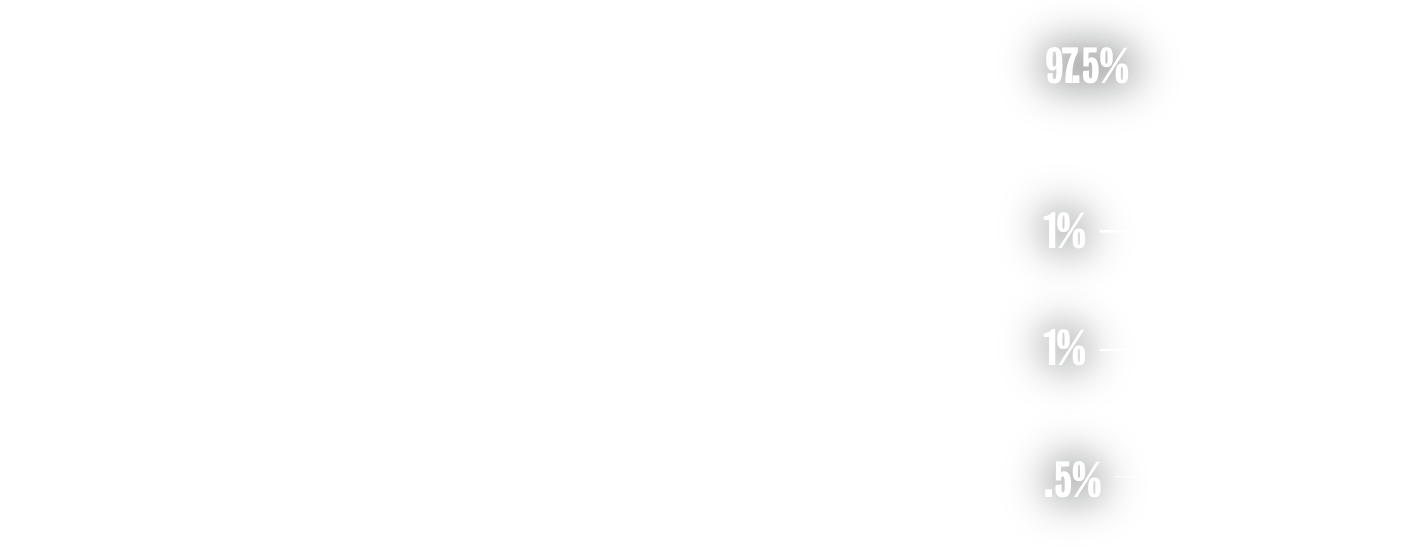
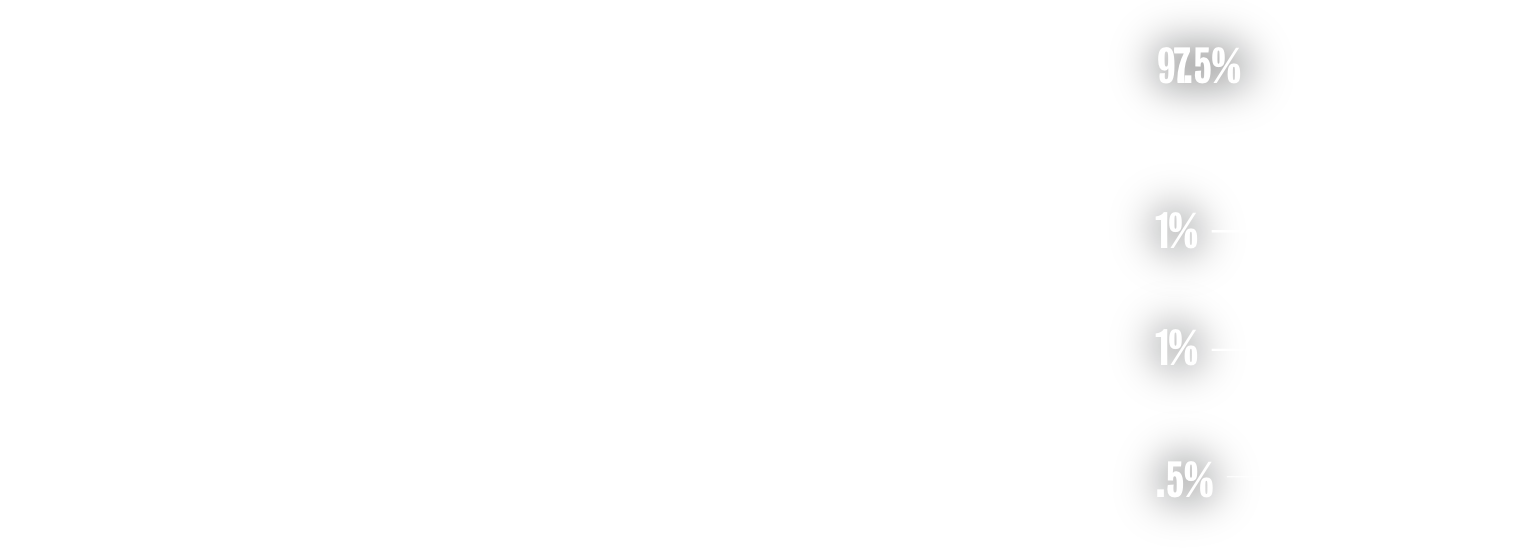
Refine about layout

diff --git a/views/about.html b/views/about.html
@@ -27,28 +27,66 @@
 
 
         <div id="page-1" class="page">
-          <p class="text-upscale">
-            Two chains duel for the next block reward. Take your friends’ hard earned sats in this revamp of the classic snake game.
-          </p>
+          <div class="page-inner">
+
+            <p class="text-upscale">
+              Two chains duel for the next block reward. Take your friends’ hard earned sats in this revamp of the classic snake game.
+            </p>
+
+
+            <div>
+              <h2 class="label">
+                Rules
+              </h2>
+
+                <p>
+                  Place your bets, play, redeem. Epoch ends when one chain hits zero sats.
+                </p>
+                <p>
+                  Grow your chain by capturing UTXOs. The longer your chain the more value you capture from the rival chain.
+                </p>
+                <p>
+                  If you hit a wall or your opponent you’ll reset your chain.
+                </p>
+
+            </div>
+
+            
+          </div>
+
+          <div class="pager">
+            1/4
+          </div>
+
         </div>
 
 
 
         <div id="page-2" class="page">
-          <h2 class="label">
-            Rules
-          </h2>
-          <ul>
-            <li>
-              Place your bets, play, redeem. Epoch ends when one chain hits zero sats.
-            </li>
-            <li>
-              Grow your chain by capturing UTXOs. The longer your chain the more value you capture from the rival chain.
-            </li>
-            <li>
-              If you hit a wall or your opponent you’ll reset your chain.
-            </li>
-          </ul>
+          <div class="page-inner">
+
+
+
+
+            <div>
+              <h2 class="label">
+                INFRASTRUCTURE
+              </h2>
+              <p>
+                The architecture integrates multiple open-source projects and encourages the adoption of Bitcoin as a payment system.
+              </p>
+              <img class="inline-logo" src="images/about/bitcoin_core.png" />
+              <img class="inline-logo" src="images/about/lnd.png" />
+              <img class="inline-logo" src="images/about/rtl.png" />
+              <img class="inline-logo" src="images/about/lnbits.png" />
+            </div>
+
+          </div>
+
+          <div class="pager">
+            2/4
+          </div>
+
         </div>
 
 
@@ -56,90 +94,93 @@
 
 
         <div id="page-3" class="page">
+          <div class="page-inner">
 
-          <h2 class="label">
-            VALUE SPLIT
-          </h2>
+            <p class="value-text">
+              Value-for-value:<br/>A fraction of the wagered sats is distributed on Lightning to the contributors of the project.
+            </p>
 
-          <img class="value" src="images/about/value-for-value.png" />
-          <p class="value-text">
-            Value-for-value:<br/>A fraction of the wagered sats is distributed on Lightning to the contributors of the project.
-          </p>
+            <img class="value" src="images/about/value-for-value.png" />
 
-          <h2 class="label">
-            INFRASTRUCTURE
-          </h2>
-          <p>
-            The architecture integrates multiple open-source projects and encourages the adoption of Bitcoin as a payment system.
-          </p>
-          <img class="inline-logo" src="images/about/bitcoin_core.png" />
-          <img class="inline-logo" src="images/about/lnd.png" />
-          <img class="inline-logo" src="images/about/rtl.png" />
-          <img class="inline-logo" src="images/about/lnbits.png" />
+
+          </div>
+
+          <div class="pager">
+            3/4
+          </div>
 
         </div>
 
 
 
-        <div id="page-4" class="page">
-
-          <div class="credits">
-
-            <div class="credit">
-              <h2 class="label">
-                DEVELOPED BY
-              </h2>
-              <p>
-                Francis Mars
-              </p>
-            </div>
-
-            <div class="credit">
-              <h2 class="label">
-                VISUALS BY
-              </h2>
-              <p>
-                Anatomy of Bitcoin
-              </p>
-            </div>
-
-            <div class="credit">
-              <h2 class="label">
-                COORDINATED BY
-              </h2>
-              <p>
-                Pat Riley
-              </p>
-            </div>
-
-            <div class="credit">
-              <h2 class="label">
-                PRODUCED BY
-              </h2>
-              <p>
-                Scott Lee
-              </p>
-            </div>
+        <div id="page-4" class="page center">
+          <div class="page-inner">
 
 
-            <div class="credit">
-              <h2 class="label">
-                THANK YOU FOR THE LIQUIDITY
-              </h2>
-              <p>
-                REMNET, MYBONK_ElSalvador, valker, sparkBlitz, Breez, Mandelduck, Nathan Day
-              </p>
+
+            <div class="credits">
+
+              <div class="credit">
+                <p class="label">
+                  DEVELOPED BY
+                </p>
+                <p class="condensed credit-name">
+                  Francis Mars
+                </p>
+              </div>
+
+              <div class="credit">
+                <p class="label">
+                  VISUALS BY
+                </p>
+                <p class="condensed credit-name">
+                  Anatomy of Bitcoin
+                </p>
+              </div>
+
+              <div class="credit">
+                <p class="label">
+                  COORDINATED BY
+                </p>
+                <p class="condensed credit-name">
+                  Pat Riley
+                </p>
+              </div>
+
+              <div class="credit">
+                <p class="label">
+                  PRODUCED BY
+                </p>
+                <p class="condensed credit-name">
+                  Scott Lee
+                </p>
+              </div>
+
+              <div class="credit liquidity">
+                <p class="label">
+                  THANK YOU FOR THE LIQUIDITY
+                </p>
+                <p class="condensed credit-name">
+                  REMNET, MYBONK_ElSalvador, valker, sparkBlitz, Breez, Mandelduck, Nathan Day
+                </p>
+              </div>
+
             </div>
 
 
 
           </div>
 
-
-
+          <div class="pager">
+            4/4
+          </div>
 
 
         </div>
+
+
+
+
 
 
       </div>

diff --git a/public/stylesheets/about.css b/public/stylesheets/about.css
@@ -16,10 +16,32 @@
 .page {
     position: absolute;
     font-size: 1.3vw;
+    height: 100%;
 }
 
+.page-inner{
+  display: flex;
+  height: 80%;
+  align-items: center;
+  flex-wrap: wrap;
+  text-align: center;
+  align-content: center;
+  row-gap: 0%;
+}
+
+
+
+.pager {
+  margin: 2% auto;
+  text-align: center;
+  letter-spacing: 0.5rem;
+  width: 100%;
+  font-size: 1vw;
+}
+
+
 .page p{
-    margin-top: 3px;
+    margin-top: 0;
 }
 
 #page-2{
@@ -38,7 +60,7 @@ p.text-upscale {
 
 h2.label {
     font-size: 1.5vw;
-    letter-spacing: 0;
+    letter-spacing: 0.01rem;
     margin-bottom: 0;
 }
 
@@ -48,10 +70,6 @@ img.value{
     width: 100%;
 }
 
-p.value-text{
-  width: 50%;
-  margin-top: -8vw;
-}
 
 
 img.inline-logo {
@@ -89,8 +107,28 @@ img.inline-logo {
 }
 
 
-.credits {columns: 2;}
+.credits {
+  columns: 2;
+  text-align: center;
+}
 
-.credit p {
-    margin-top: 5px;
+.credit .label {
+    margin-bottom: 1%;
+}
+
+.credit .credit-name {
+    margin-top: 1%;
+    font-size: 3vw;
+    letter-spacing: 0.005rem;
+}
+
+.credits .liquidity{
+  column-span: all;
+  width: 60%;
+  margin: auto;
+}
+
+.credits .liquidity .credit-name{
+  font-size: 2vw;
+  letter-spacing: 0.01rem;
 }
